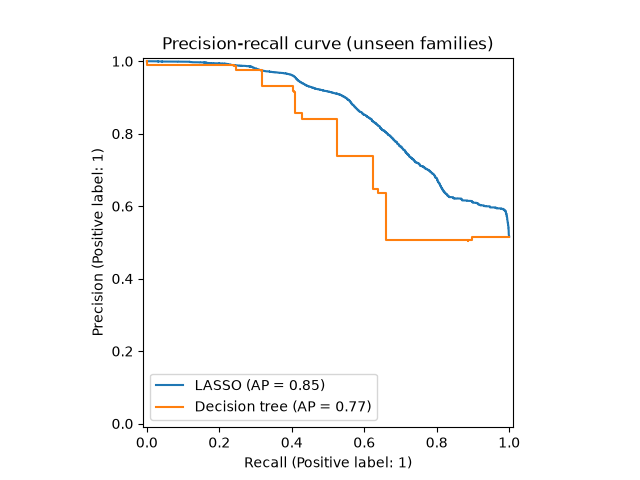
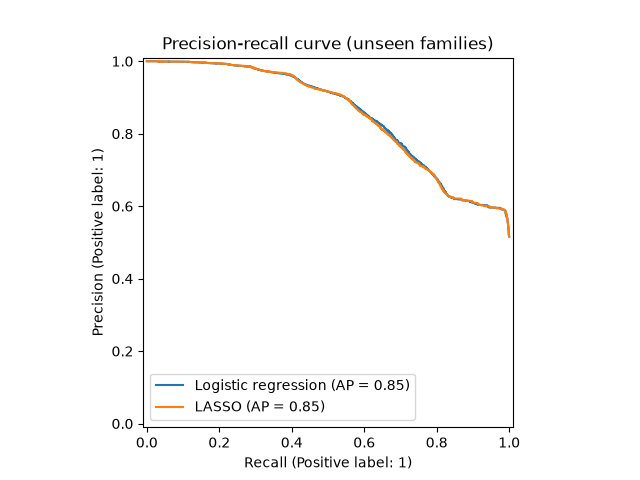
Recall redundant decision tree test

diff --git a/evaluation.py b/evaluation.py
@@ -8,7 +8,6 @@ from sklearn.dummy import DummyClassifier
 from sklearn.linear_model import LogisticRegressionCV, LogisticRegression
 from sklearn.metrics import classification_report, confusion_matrix
 from sklearn.metrics import RocCurveDisplay, PrecisionRecallDisplay
-from sklearn.tree import DecisionTreeClassifier, export_text
 import matplotlib.pyplot as plt
 
 ## Data Import
@@ -207,48 +206,45 @@ print("Chosen lambda:", 1 / best_C)
 coefs = pd.DataFrame({"feature": feature_cols, "coefficient": lasso.coef_[0]})
 print(coefs.sort_values("coefficient"))
 
+# Compare coefficients with and without feature selection
+coef_compare = pd.DataFrame({
+    "feature": feature_cols,
+    "logistic regression": logreg.coef_[0],
+    "LASSO": lasso.coef_[0],
+})
+print(coef_compare)
+
 # LASSO Results
 print("===== LASSO - seen families =====")
 print(classification_report(y_test_seen, lasso.predict(X_test_seen_scaled), zero_division=0))
 print("===== LASSO - unseen families =====")
 print(classification_report(y_test_unseen, lasso.predict(X_test_unseen_scaled), zero_division=0))
 
-# Decision Tree 
-tree = DecisionTreeClassifier(max_depth=5, random_state=0)
-tree.fit(X_train, y_train)
-
-for name, X_test, y_test in [("seen families", X_test_seen, y_test_seen),
-                             ("unseen families", X_test_unseen, y_test_unseen)]:
-    print("===== Decision tree -", name, "=====")
-    print(classification_report(y_test, tree.predict(X_test), zero_division=0))
-    
-print(export_text(tree, feature_names=feature_cols))
-print(pd.Series(tree.feature_importances_, index=feature_cols).sort_values(ascending=False))
-
-# Recall for family on unseen families - Unsupervised
+# Recall per family on unseen families (fraction of each family's domains caught)
 dga_unseen_rows = test_unseen[test_unseen["label"] == 1].copy()
-dga_unseen_rows["lasso_pred"] = lasso.predict(scaler.transform(dga_unseen_rows[feature_cols]))
-dga_unseen_rows["tree_pred"] = tree.predict(dga_unseen_rows[feature_cols])
-print(dga_unseen_rows.groupby("family")[["lasso_pred", "tree_pred"]].mean())
+X_family = scaler.transform(dga_unseen_rows[feature_cols])
+dga_unseen_rows["logreg_pred"] = logreg.predict(X_family)
+dga_unseen_rows["lasso_pred"] = lasso.predict(X_family)
+print(dga_unseen_rows.groupby("family")[["logreg_pred", "lasso_pred"]].mean())
 
 # Results
 
 # Each model's score for every test domain
+logreg_scores = logreg.predict_proba(X_test_unseen_scaled)[:, 1]
 lasso_scores = lasso.predict_proba(X_test_unseen_scaled)[:, 1]
-tree_scores = tree.predict_proba(X_test_unseen)[:, 1]
 
 # ROC curve
 fig, ax = plt.subplots()
+RocCurveDisplay.from_predictions(y_test_unseen, logreg_scores, name="Logistic regression", ax=ax)
 RocCurveDisplay.from_predictions(y_test_unseen, lasso_scores, name="LASSO", ax=ax)
-RocCurveDisplay.from_predictions(y_test_unseen, tree_scores, name="Decision tree", ax=ax)
 ax.set_title("ROC curve (unseen families)")
 plt.savefig("roc_unseen.png")
 plt.show()
 
 # Precision recall curve
 fig, ax = plt.subplots()
+PrecisionRecallDisplay.from_predictions(y_test_unseen, logreg_scores, name="Logistic regression", ax=ax)
 PrecisionRecallDisplay.from_predictions(y_test_unseen, lasso_scores, name="LASSO", ax=ax)
-PrecisionRecallDisplay.from_predictions(y_test_unseen, tree_scores, name="Decision tree", ax=ax)
 ax.set_title("Precision-recall curve (unseen families)")
 plt.savefig("pr_unseen.png")
 plt.show()
@@ -262,9 +258,9 @@ def rates(y_true, y_pred):
     return tp / (tp + fn), fp / (fp + tn)   # TPR, FPR
 
 # True Positive Rate (TPR) and False Positive Rate (FPR) from the unseen families results
+logreg_tpr, logreg_fpr = rates(y_test_unseen, logreg.predict(X_test_unseen_scaled))
 lasso_tpr, lasso_fpr = rates(y_test_unseen, lasso.predict(X_test_unseen_scaled))
-tree_tpr, tree_fpr = rates(y_test_unseen, tree.predict(X_test_unseen))
 
 for p in [0.01, 0.001]:
-    print(f"Base rate {p}: LASSO = {alert_precision(lasso_tpr, lasso_fpr, p):.4f}, "
-          f"tree = {alert_precision(tree_tpr, tree_fpr, p):.4f}")
+    print(f"Base rate {p}: logistic regression = {alert_precision(logreg_tpr, logreg_fpr, p):.4f}, "
+          f"LASSO = {alert_precision(lasso_tpr, lasso_fpr, p):.4f}")
